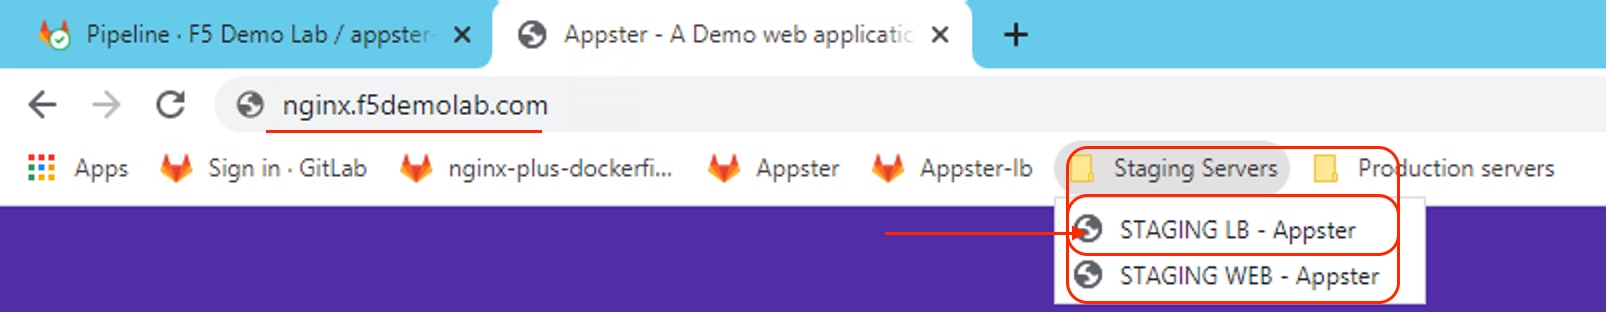
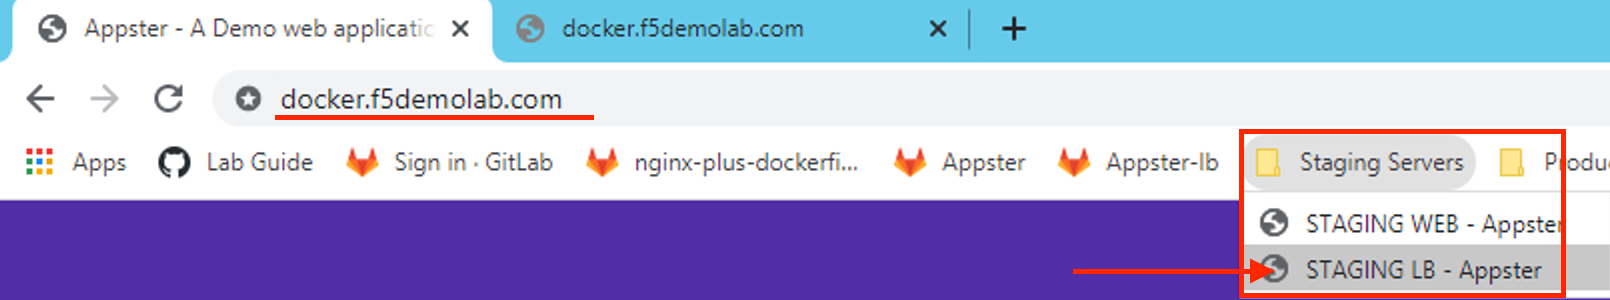
typos

diff --git a/3.0.continuous-deployment-for-nginx-plus-load-balancers/3.0.continuous-deployment-for-nginx-plus-load-balancers.md b/3.0.continuous-deployment-for-nginx-plus-load-balancers/3.0.continuous-deployment-for-nginx-plus-load-balancers.md
@@ -178,8 +178,8 @@ we will enable Rate limiting to our Appster service
 ![A screenshot pipeline status](./media/image9.png)
 
 7.  Let's play QA Engineering and do some testing on our Staging
-    environment. View our Staging NGINX Plus service in a browser on the
-    URI, [`http://nginx.f5demolab.com`](http://nginx.f5demolab.com), or use the
+    environment. View our **Staging** NGINX Plus service in a browser on the
+    URI, [`http://docker.f5demolab.com`](http://nginx.f5demolab.com), or use the
     shortcut, **STAGING LB - Appster**
 
     ![A screenshot of web browser](./media/image10.png)

diff --git a/2.0.deploying-nginx-plus-web-server-with-cicd/2.0.deploying-nginx-plus-web-server-with-cicd.md b/2.0.deploying-nginx-plus-web-server-with-cicd/2.0.deploying-nginx-plus-web-server-with-cicd.md
@@ -185,7 +185,7 @@ the next exercise
 
     ![A screenshot appster web app](./media/image15.png)
 
-    **After new code commit:**
+    **After new code commit (notice the updated phone image):**
 
     ![A screenshot appster web app](./media/image18.png)
 
